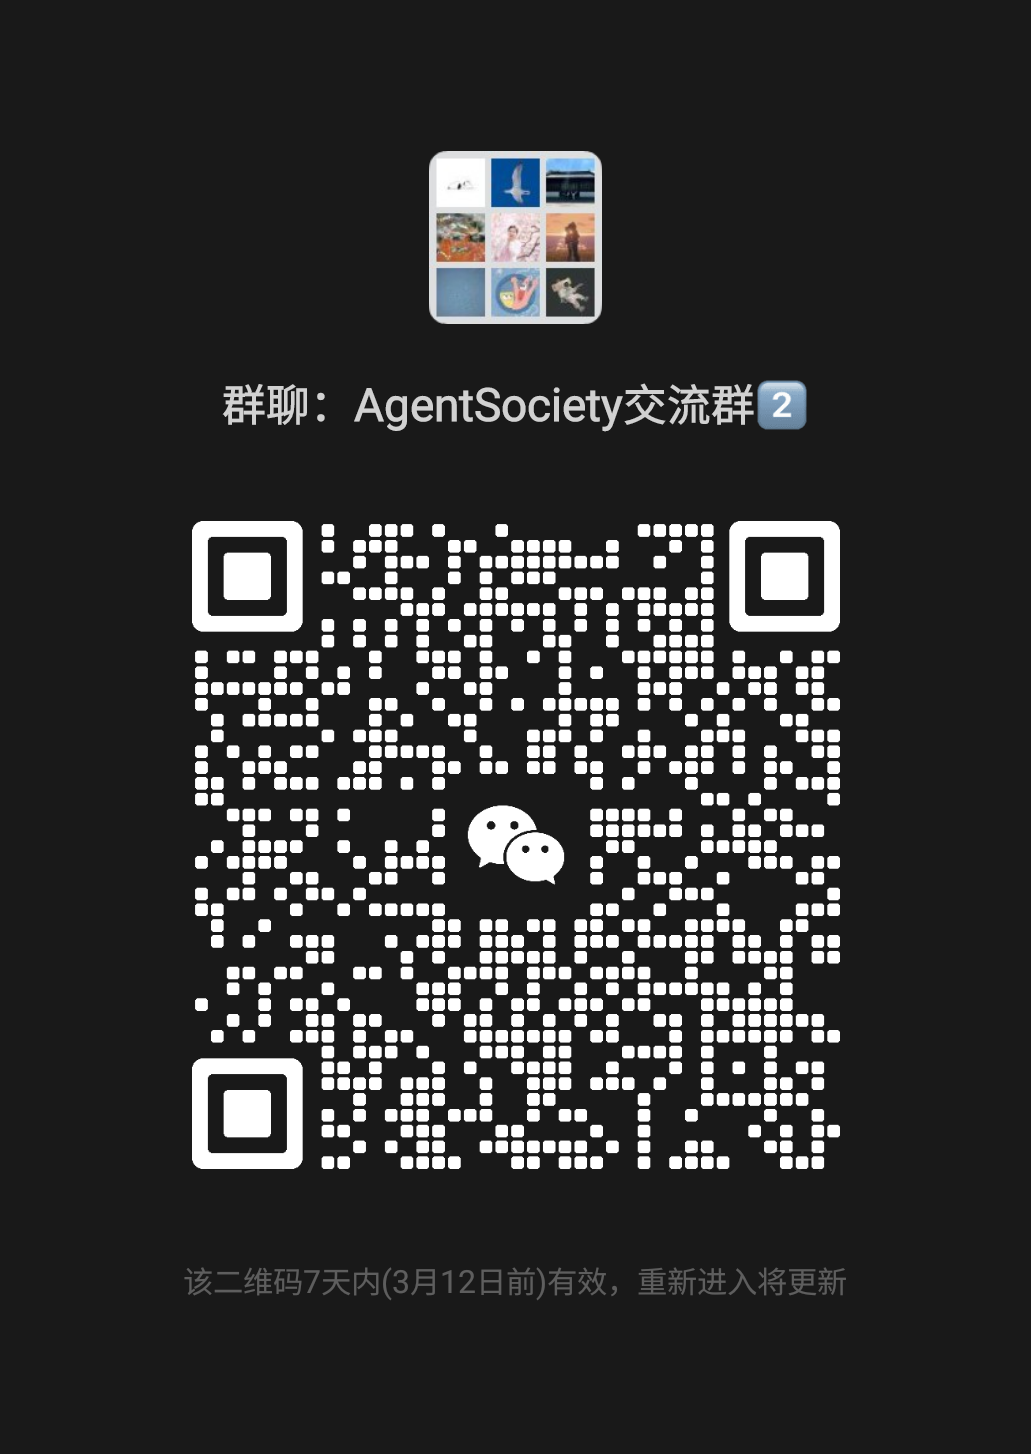
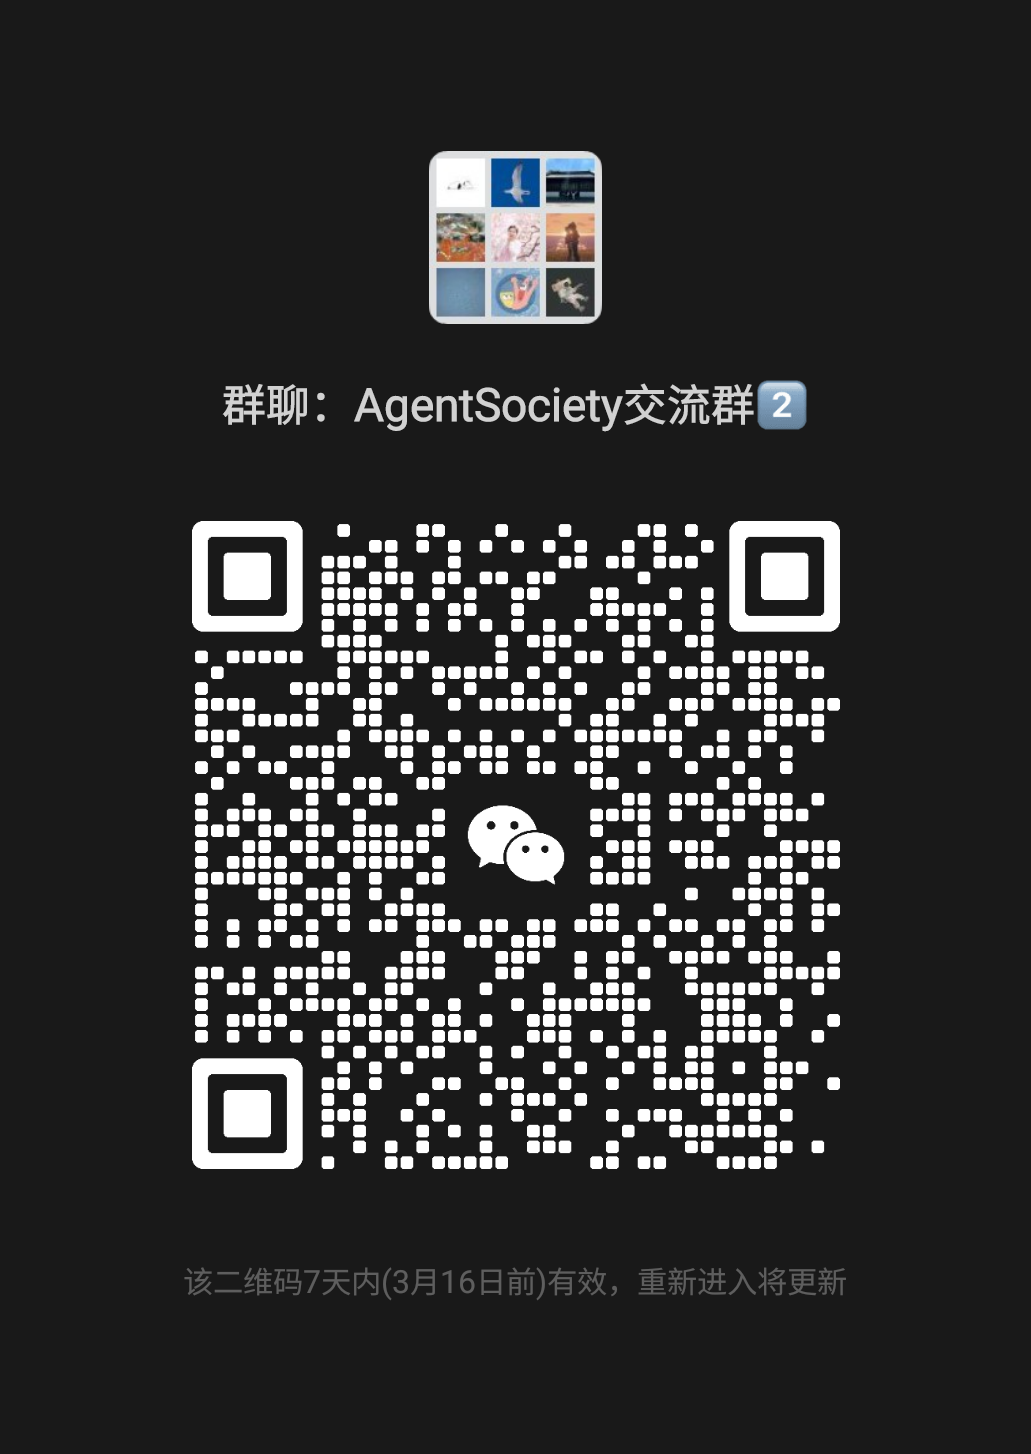
update WeChat QR code

Changed region(s): [[0.1862, 0.3404, 0.838, 0.8047], [0.4345, 0.8666, 0.4656, 0.8975]]

diff --git a/agentsociety/configs/exp_config.py b/agentsociety/configs/exp_config.py
@@ -15,44 +15,95 @@ from ..utils import DistributionType, MetricType, WorkflowType
 
 class WorkflowStep(BaseModel):
     type: WorkflowType = Field(..., description="The type of the workflow step")
-    func: Optional[Callable] = None  # Optional function to be executed during this step - used for [FUNCTION, INTERVENE] type
-    days: float = 1.0  # Duration (in days) for which this step lasts - used for [RUN] type
+    func: Optional[Callable] = (
+        None  # Optional function to be executed during this step - used for [FUNCTION, INTERVENE] type
+    )
+    days: float = (
+        1.0  # Duration (in days) for which this step lasts - used for [RUN] type
+    )
     times: int = 1  # Number of repetitions for this step - used for [RUN] type
-    target_agent: Optional[list] = None  # List specifying the agents targeted by this step - used for [INTERVIEW, SURVEY, UPDATE_STATE_INTERVENE, MESSAGE_INTERVENE] type
-    interview_message: Optional[str] = None  # Optional message used for interviews during this step - used for [INTERVIEW] type
-    survey: Optional[Survey] = None  # Optional survey instance associated with this step - used for [SURVEY] type
-    key: Optional[str] = None  # Optional key identifier for the step - used for [ENVIRONMENT_INTERVENE, UPDATE_STATE_INTERVENE] type
-    value: Optional[Any] = None  # Optional value associated with the step - used for [ENVIRONMENT_INTERVENE, UPDATE_STATE_INTERVENE] type
-    intervene_message: Optional[str] = None  # Optional message used for interventions - used for [MESSAGE_INTERVENE] type
-    description: Optional[str] = "None"  # A descriptive text explaining the workflow step
+    target_agent: Optional[list] = (
+        None  # List specifying the agents targeted by this step - used for [INTERVIEW, SURVEY, UPDATE_STATE_INTERVENE, MESSAGE_INTERVENE] type
+    )
+    interview_message: Optional[str] = (
+        None  # Optional message used for interviews during this step - used for [INTERVIEW] type
+    )
+    survey: Optional[Survey] = (
+        None  # Optional survey instance associated with this step - used for [SURVEY] type
+    )
+    key: Optional[str] = (
+        None  # Optional key identifier for the step - used for [ENVIRONMENT_INTERVENE, UPDATE_STATE_INTERVENE] type
+    )
+    value: Optional[Any] = (
+        None  # Optional value associated with the step - used for [ENVIRONMENT_INTERVENE, UPDATE_STATE_INTERVENE] type
+    )
+    intervene_message: Optional[str] = (
+        None  # Optional message used for interventions - used for [MESSAGE_INTERVENE] type
+    )
+    description: Optional[str] = (
+        "None"  # A descriptive text explaining the workflow step
+    )
 
 
 class MetricExtractor(BaseModel):
-    type: MetricType = Field(MetricType.FUNCTION, description="The type of metric extraction; defaults to FUNCTION")
-    func: Optional[Callable] = None  # The function that extracts the metric - used for [FUNCTION] type
-    step_interval: int = 10  # Frequency interval (in simulation steps) for metric extraction
-    target_agent: Optional[list] = None  # List specifying the agents from which to extract metrics - used for [STATE] type
-    key: Optional[str] = None  # Optional key to store or identify the extracted metric - used for [STATE] type
-    method: Optional[Literal['mean', 'sum', 'max', 'min']] = "sum"  # Aggregation method applied to the metric values - used for [STATE] type
+    type: MetricType = Field(
+        MetricType.FUNCTION,
+        description="The type of metric extraction; defaults to FUNCTION",
+    )
+    func: Optional[Callable] = (
+        None  # The function that extracts the metric - used for [FUNCTION] type
+    )
+    step_interval: int = (
+        10  # Frequency interval (in simulation steps) for metric extraction
+    )
+    target_agent: Optional[list] = (
+        None  # List specifying the agents from which to extract metrics - used for [STATE] type
+    )
+    key: Optional[str] = (
+        None  # Optional key to store or identify the extracted metric - used for [STATE] type
+    )
+    method: Optional[Literal["mean", "sum", "max", "min"]] = (
+        "sum"  # Aggregation method applied to the metric values - used for [STATE] type
+    )
     extract_time: int = 0  # The simulation time or step at which extraction occurs
     description: str = "None"  # A descriptive text explaining the metric extractor
 
 
 class DistributionConfig(BaseModel):
     dist_type: DistributionType = Field(..., description="The type of the distribution")
-    choices: Optional[List[Any]] = None  # A list of possible discrete values - used for [CHOICE] type
-    weights: Optional[List[float]] = None  # Weights corresponding to each discrete choice - used for [CHOICE] type
-    min_value: Optional[Union[int, float]] = None  # Minimum value for continuous distributions - used for [UNIFORM_INT, UNIFORM_FLOAT, NORMAL] type
-    max_value: Optional[Union[int, float]] = None  # Maximum value for continuous distributions - used for [UNIFORM_INT, UNIFORM_FLOAT, NORMAL] type
-    mean: Optional[float] = None  # Mean value for the distribution if applicable - used for [NORMAL] type
-    std: Optional[float] = None  # Standard deviation for the distribution if applicable - used for [NORMAL] type
-    value: Optional[Any] = None  # A fixed value that can be used instead of a distribution - used for [CONSTANT] type
+    choices: Optional[List[Any]] = (
+        None  # A list of possible discrete values - used for [CHOICE] type
+    )
+    weights: Optional[List[float]] = (
+        None  # Weights corresponding to each discrete choice - used for [CHOICE] type
+    )
+    min_value: Optional[Union[int, float]] = (
+        None  # Minimum value for continuous distributions - used for [UNIFORM_INT, UNIFORM_FLOAT, NORMAL] type
+    )
+    max_value: Optional[Union[int, float]] = (
+        None  # Maximum value for continuous distributions - used for [UNIFORM_INT, UNIFORM_FLOAT, NORMAL] type
+    )
+    mean: Optional[float] = (
+        None  # Mean value for the distribution if applicable - used for [NORMAL] type
+    )
+    std: Optional[float] = (
+        None  # Standard deviation for the distribution if applicable - used for [NORMAL] type
+    )
+    value: Optional[Any] = (
+        None  # A fixed value that can be used instead of a distribution - used for [CONSTANT] type
+    )
 
 
 class MemoryConfig(BaseModel):
-    memory_config_func: Optional[Dict[type[Any], Callable]] = None  # A dictionary mapping agent types to functions that return memory configurations
-    memory_from_file: Optional[Dict[type[Any], str]] = None  # A dictionary mapping agent types to file paths containing memory configurations
-    memory_distributions: Optional[Dict[str, DistributionConfig]] = None  # A dictionary mapping citizen agents profile attributes to distribution configurations
+    memory_config_func: Optional[Dict[type[Any], Callable]] = (
+        None  # A dictionary mapping agent types to functions that return memory configurations
+    )
+    memory_from_file: Optional[Dict[type[Any], str]] = (
+        None  # A dictionary mapping agent types to file paths containing memory configurations
+    )
+    memory_distributions: Optional[Dict[str, DistributionConfig]] = (
+        None  # A dictionary mapping citizen agents profile attributes to distribution configurations
+    )
 
 
 class AgentConfig(BaseModel):
@@ -72,9 +123,13 @@ class AgentConfig(BaseModel):
     @property
     def prop_memory_config(self) -> MemoryConfig:
         if self.memory_config is None:
-            return MemoryConfig(memory_config_func=None, memory_from_file=None, memory_distributions=None)
+            return MemoryConfig(
+                memory_config_func=None,
+                memory_from_file=None,
+                memory_distributions=None,
+            )
         return self.memory_config  # type:ignore
-    
+
     def SetMemoryConfig(
         self,
         memory_config_func: Optional[Dict[type[Any], Callable]] = None,
@@ -87,8 +142,8 @@ class AgentConfig(BaseModel):
             memory_distributions=memory_distributions,
         )
         return self
-    
-    
+
+
 class EnvironmentConfig(BaseModel):
     weather: str = Field(default="The weather is normal")
     temperature: str = Field(default="The temperature is normal")

diff --git a/agentsociety/simulation/simulation.py b/agentsociety/simulation/simulation.py
@@ -713,11 +713,13 @@ class AgentSimulation:
             num_institution_groups = (
                 total_institution_count + group_size - 1
             ) // group_size
-            institution_offsets = {agent_class: 0 for agent_class, _, _, _ in institution_params}
+            institution_offsets = {
+                agent_class: 0 for agent_class, _, _, _ in institution_params
+            }
 
             for k in range(num_institution_groups):
                 remaining = group_size  # remaining capacity for this group
-                
+
                 agent_classes = []
                 agent_counts = []
                 memory_values_dict = {}
@@ -731,7 +733,9 @@ class AgentSimulation:
                         agent_classes.append(agent_class)
                         agent_counts.append(allocate)
                         # assign only the needed memory values for current group
-                        memory_values_dict[agent_class] = memory_vals[offset: offset + allocate]
+                        memory_values_dict[agent_class] = memory_vals[
+                            offset : offset + allocate
+                        ]
                         config_files[agent_class] = conf_file
                         institution_offsets[agent_class] += allocate
                         remaining -= allocate
@@ -748,16 +752,20 @@ class AgentSimulation:
 
         # process citizen group
         if citizen_params:
-            total_citizen_count = sum(p[1] for p in citizen_params)  # total number of citizen agents
+            total_citizen_count = sum(
+                p[1] for p in citizen_params
+            )  # total number of citizen agents
             num_citizen_groups = (
                 total_citizen_count + group_size - 1
             ) // group_size  # number of citizen groups
-            citizen_offsets = {agent_class: 0 for agent_class, _, _, _ in citizen_params}
+            citizen_offsets = {
+                agent_class: 0 for agent_class, _, _, _ in citizen_params
+            }
 
             # determine parameters for each citizen group
             for k in range(num_citizen_groups):
                 remaining = group_size  # remaining capacity for this group
-                
+
                 agent_classes = []
                 agent_counts = []
                 memory_values_dict = {}
@@ -771,7 +779,9 @@ class AgentSimulation:
                         agent_classes.append(agent_class)
                         agent_counts.append(allocate)
                         # assign only the needed memory values for current group
-                        memory_values_dict[agent_class] = memory_vals[offset: offset + allocate]
+                        memory_values_dict[agent_class] = memory_vals[
+                            offset : offset + allocate
+                        ]
                         config_files[agent_class] = conf_file
                         citizen_offsets[agent_class] += allocate
                         remaining -= allocate

diff --git a/agentsociety/cityagent/societyagent.py b/agentsociety/cityagent/societyagent.py
@@ -333,6 +333,7 @@ class SocietyAgent(CitizenAgent):
                     current_plan["end_time"] = await self.simulator.get_time(
                         format_time=True
                     )
+                    related_memories = None
                     if self.enable_cognition:
                         try:
                             # Update emotion for the plan
@@ -340,15 +341,19 @@ class SocietyAgent(CitizenAgent):
                                 current_plan["stream_nodes"]
                             )
                             incident = f"You have successfully completed the plan: {related_memories}"
-                            conclusion = await self.mindBlock.cognitionBlock.emotion_update(
-                                incident
+                            conclusion = (
+                                await self.mindBlock.cognitionBlock.emotion_update(
+                                    incident
+                                )
                             )
                             await self.save_agent_thought(conclusion)
                             await self.memory.stream.add_cognition_to_memory(
                                 current_plan["stream_nodes"], conclusion  # type:ignore
                             )
                         except Exception as e:
-                            logger.warning(f"Error in check_and_update_step (emotion_update): {str(e)}\nrelated_memories: {related_memories}")
+                            logger.warning(
+                                f"Error in check_and_update_step (emotion_update): {str(e)}\nrelated_memories: {related_memories}"
+                            )
                     await self.memory.status.update("current_plan", current_plan)
                     await self.memory.status.update(
                         "current_step", {"intention": "", "type": ""}
@@ -360,6 +365,7 @@ class SocietyAgent(CitizenAgent):
                     format_time=True
                 )
                 if self.enable_cognition:
+                    related_memories = None
                     try:
                         # Update emotion for the plan
                         related_memories = await self.memory.stream.get_by_ids(
@@ -376,7 +382,9 @@ class SocietyAgent(CitizenAgent):
                             current_plan["stream_nodes"], conclusion  # type:ignore
                         )
                     except Exception as e:
-                        logger.warning(f"Error in check_and_update_step (emotion_update): {str(e)}\nrelated_memories: {related_memories}")
+                        logger.warning(
+                            f"Error in check_and_update_step (emotion_update): {str(e)}\nrelated_memories: {related_memories}"
+                        )
                 await self.memory.status.update("current_plan", current_plan)
                 await self.memory.status.update(
                     "current_step", {"intention": "", "type": ""}

diff --git a/agentsociety/llm/llm.py b/agentsociety/llm/llm.py
@@ -47,7 +47,7 @@ class LLM:
         self.semaphore = asyncio.Semaphore(200)
         self._current_client_index = 0
         self._log_list = []
-        
+
         # statistics about errors
         self._total_calls = 0
         self._total_errors = 0
@@ -92,9 +92,7 @@ class LLM:
             elif self.config.provider == LLMProviderType.ZhipuAI:
                 client = ZhipuAI(api_key=api_key, timeout=300)
             else:
-                raise ValueError(
-                    f"Unsupported `provider` {self.config.provider}!"
-                )
+                raise ValueError(f"Unsupported `provider` {self.config.provider}!")
             self._aclients.append(client)
             self._client_usage.append(
                 {"prompt_tokens": 0, "completion_tokens": 0, "request_number": 0}
@@ -306,7 +304,7 @@ class LLM:
                     except OpenAIError as e:
                         if hasattr(e, "http_status"):
                             logger.warning(
-                                f"HTTP status code: {e.http_status}. Retry {attempt+1} of {retries}" # type: ignore
+                                f"HTTP status code: {e.http_status}. Retry {attempt+1} of {retries}"  # type: ignore
                             )  # type: ignore
                         else:
                             logger.warning(
@@ -420,5 +418,5 @@ class LLM:
         # add statistics about different error types
         for error_type, count in self._error_types.items():
             stats[f"{error_type}"] = count
-        
+
         return stats

diff --git a/agentsociety/configs/sim_config.py b/agentsociety/configs/sim_config.py
@@ -10,9 +10,7 @@ __all__ = [
 
 
 class LLMConfig(BaseModel):
-    provider: LLMProviderType = Field(
-        ..., description="The type of the LLM provider"
-    )
+    provider: LLMProviderType = Field(..., description="The type of the LLM provider")
     base_url: Optional[str] = Field(
         None, description="The base URL for the LLM provider"
     )
@@ -130,7 +128,11 @@ class SimConfig(BaseModel):
         return self.metric_config  # type:ignore
 
     def SetLLMConfig(
-        self, provider: LLMProviderType, api_key: Union[list[str], str], model: str, base_url: Optional[str] = None
+        self,
+        provider: LLMProviderType,
+        api_key: Union[list[str], str],
+        model: str,
+        base_url: Optional[str] = None,
     ) -> "SimConfig":
         self.llm_config = LLMConfig(
             provider=provider, api_key=api_key, model=model, base_url=base_url

diff --git a/agentsociety/agent/agent.py b/agentsociety/agent/agent.py
@@ -305,6 +305,7 @@ class InstitutionAgent(Agent):
                 protect_llm_read_only_fields=False,
             )
             await self.status.update("id", _id, protect_llm_read_only_fields=False)
+            _type = None
             try:
                 _status = self.status
                 _id = await _status.get("id")
@@ -408,7 +409,7 @@ class InstitutionAgent(Agent):
         futures = {}
         for agent_id in agent_ids:
             futures[agent_id] = asyncio.Future()
-            self._gather_responses[agent_id] = futures[agent_id] # type: ignore
+            self._gather_responses[agent_id] = futures[agent_id]  # type: ignore
 
         # Send gather requests
         payload = {

diff --git a/agentsociety/configs/utils.py b/agentsociety/configs/utils.py
@@ -1,17 +1,17 @@
 from __future__ import annotations
 
-from typing import TYPE_CHECKING, Any, Union
+from typing import TYPE_CHECKING, Any, TypeVar
 
 import yaml
 
 if TYPE_CHECKING:
     from .exp_config import ExpConfig
     from .sim_config import SimConfig
+T = TypeVar("T", "SimConfig", "ExpConfig")
 
 
-def load_config_from_file(
-    filepath: str, config_type: Union[type[SimConfig], type[ExpConfig]]
-) -> Union[SimConfig, ExpConfig]:
+def load_config_from_file(filepath: str, config_type: type[T]) -> T:
+    print("new function2")
     with open(filepath, "r") as file:
         data = yaml.safe_load(file)
     return config_type(**data)

diff --git a/agentsociety/cityagent/message_intercept.py b/agentsociety/cityagent/message_intercept.py
@@ -5,7 +5,7 @@ from agentsociety.message import MessageBlockBase, MessageBlockListenerBase
 
 
 async def check_message(
-    from_id: str, to_id: str, llm_client: LLM, content: str
+    from_id: int, to_id: int, llm_client: LLM, content: str
 ) -> bool:
     print(f"\n Checking Message: {from_id} -> {to_id}: {content}")
     is_valid = True

diff --git a/agentsociety/tools/tool.py b/agentsociety/tools/tool.py
@@ -4,8 +4,8 @@ from collections import defaultdict
 from collections.abc import Callable, Sequence
 from typing import Any, Optional, Union
 
-from mlflow.entities import Metric
 import ray
+from mlflow.entities import Metric
 
 from ..agent import Agent
 from ..environment import AoiService, PersonService
